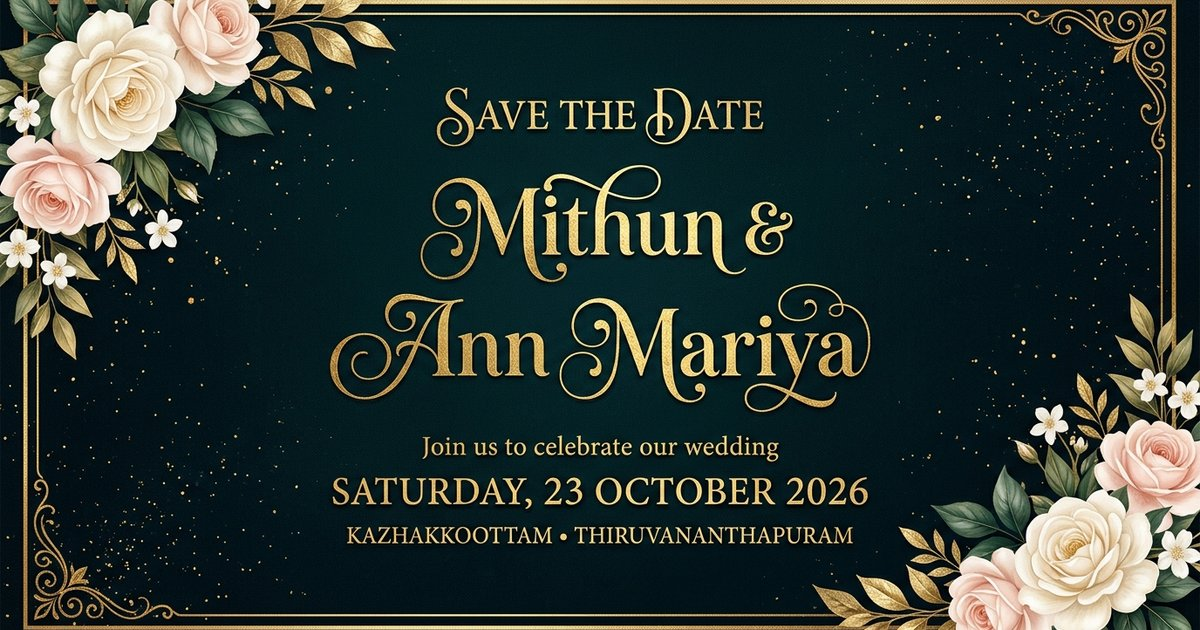
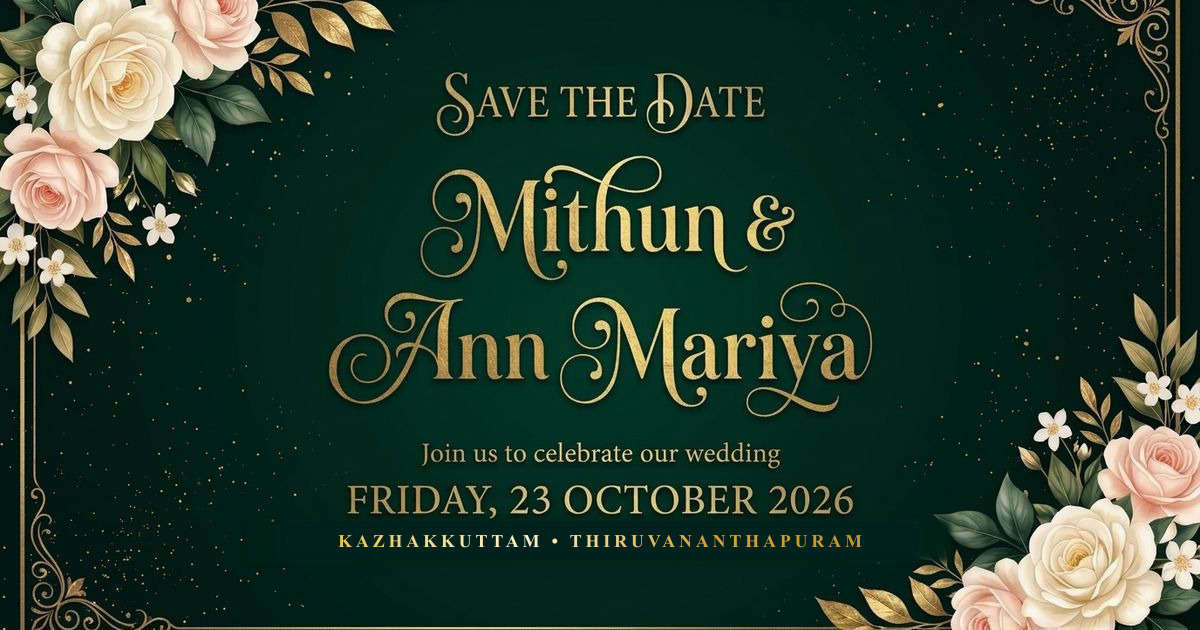
Fix OG image day of week (Friday) and venue spelling (Kazhakkuttam), add cache buster

diff --git a/index.html b/index.html
@@ -7,7 +7,7 @@
   
   <!-- Primary SEO Meta Tags -->
   <meta name="title" content="Mithun Weds Ann Mariya — Digital Wedding Invitation">
-  <meta name="description" content="Mithun & Ann Mariya cordially invite you to celebrate their wedding on Friday, October 23, 2026 at Sub Registrar Office, Kazhakkoottam.">
+  <meta name="description" content="Mithun & Ann Mariya invite you to celebrate their wedding on Friday, Oct 23, 2026 at Sub Registrar Office, Kazhakkuttam.">
   <meta name="keywords" content="Mithun Ann Mariya wedding, digital wedding invitation, luxury wedding invite, animated wedding invitation, cinematic wedding invite">
   <meta name="author" content="Mithun & Ann Mariya">
   <meta name="theme-color" content="#0a0a0f">
@@ -16,8 +16,8 @@
   <meta property="og:type" content="website">
   <meta property="og:url" content="https://mithun-weds-annmariya.invitingyou.top/">
   <meta property="og:title" content="Mithun Weds Ann Mariya — Digital Wedding Invitation">
-  <meta property="og:description" content="Mithun & Ann Mariya cordially invite you to celebrate their wedding on Friday, October 23, 2026 at Sub Registrar Office, Kazhakkoottam.">
-  <meta property="og:image" content="https://mithun-weds-annmariya.invitingyou.top/og-image.jpg">
+  <meta property="og:description" content="Mithun & Ann Mariya invite you to celebrate their wedding on Friday, Oct 23, 2026 at Sub Registrar Office, Kazhakkuttam.">
+  <meta property="og:image" content="https://mithun-weds-annmariya.invitingyou.top/og-image.jpg?v=2">
   <meta property="og:image:width" content="1200">
   <meta property="og:image:height" content="630">
   <meta property="og:image:alt" content="Mithun Weds Ann Mariya Wedding Invitation Preview">
@@ -27,8 +27,8 @@
   <meta name="twitter:card" content="summary_large_image">
   <meta name="twitter:url" content="https://mithun-weds-annmariya.invitingyou.top/">
   <meta name="twitter:title" content="Mithun Weds Ann Mariya — Digital Wedding Invitation">
-  <meta name="twitter:description" content="Mithun & Ann Mariya cordially invite you to celebrate their wedding on Friday, October 23, 2026 at Sub Registrar Office, Kazhakkoottam.">
-  <meta name="twitter:image" content="https://mithun-weds-annmariya.invitingyou.top/og-image.jpg">
+  <meta name="twitter:description" content="Mithun & Ann Mariya invite you to celebrate their wedding on Friday, Oct 23, 2026 at Sub Registrar Office, Kazhakkuttam.">
+  <meta name="twitter:image" content="https://mithun-weds-annmariya.invitingyou.top/og-image.jpg?v=2">
 
   <!-- Google Fonts -->
   <link rel="preconnect" href="https://fonts.googleapis.com">
@@ -195,7 +195,7 @@
           <!-- Venue & Location Block -->
           <div class="venue-block animate-element" style="--delay: 0.9s;">
             <h3 class="venue-name" id="displayVenue">Sub Registrar Office</h3>
-            <p class="venue-location" id="displayLocation">Kazhakkoottam, Thiruvananthapuram</p>
+            <p class="venue-location" id="displayLocation">Kazhakkuttam, Thiruvananthapuram</p>
           </div>
 
           <!-- Verse / Quote Section -->
@@ -242,7 +242,7 @@
       <div class="map-body">
         <div class="location-details">
           <h3 id="mapVenueTitle">Sub Registrar Office</h3>
-          <p id="mapVenueAddress">Kazhakkoottam, Thiruvananthapuram</p>
+          <p id="mapVenueAddress">Kazhakkuttam, Thiruvananthapuram</p>
         </div>
         <div class="map-mockup">
           <div class="map-grid-pattern"></div>
@@ -250,7 +250,7 @@
             <div class="pin-pulse"></div>
             <div class="pin-head">📍</div>
           </div>
-          <span class="map-label">Sub Registrar Office Kazhakoottam</span>
+          <span class="map-label">Sub Registrar Office Kazhakkuttam</span>
         </div>
         <a href="https://share.google/vZIT3ol2zIpQrLjcF" target="_blank" rel="noopener noreferrer" class="primary-gold-btn full-width text-center">
           Open in Google Maps ↗
